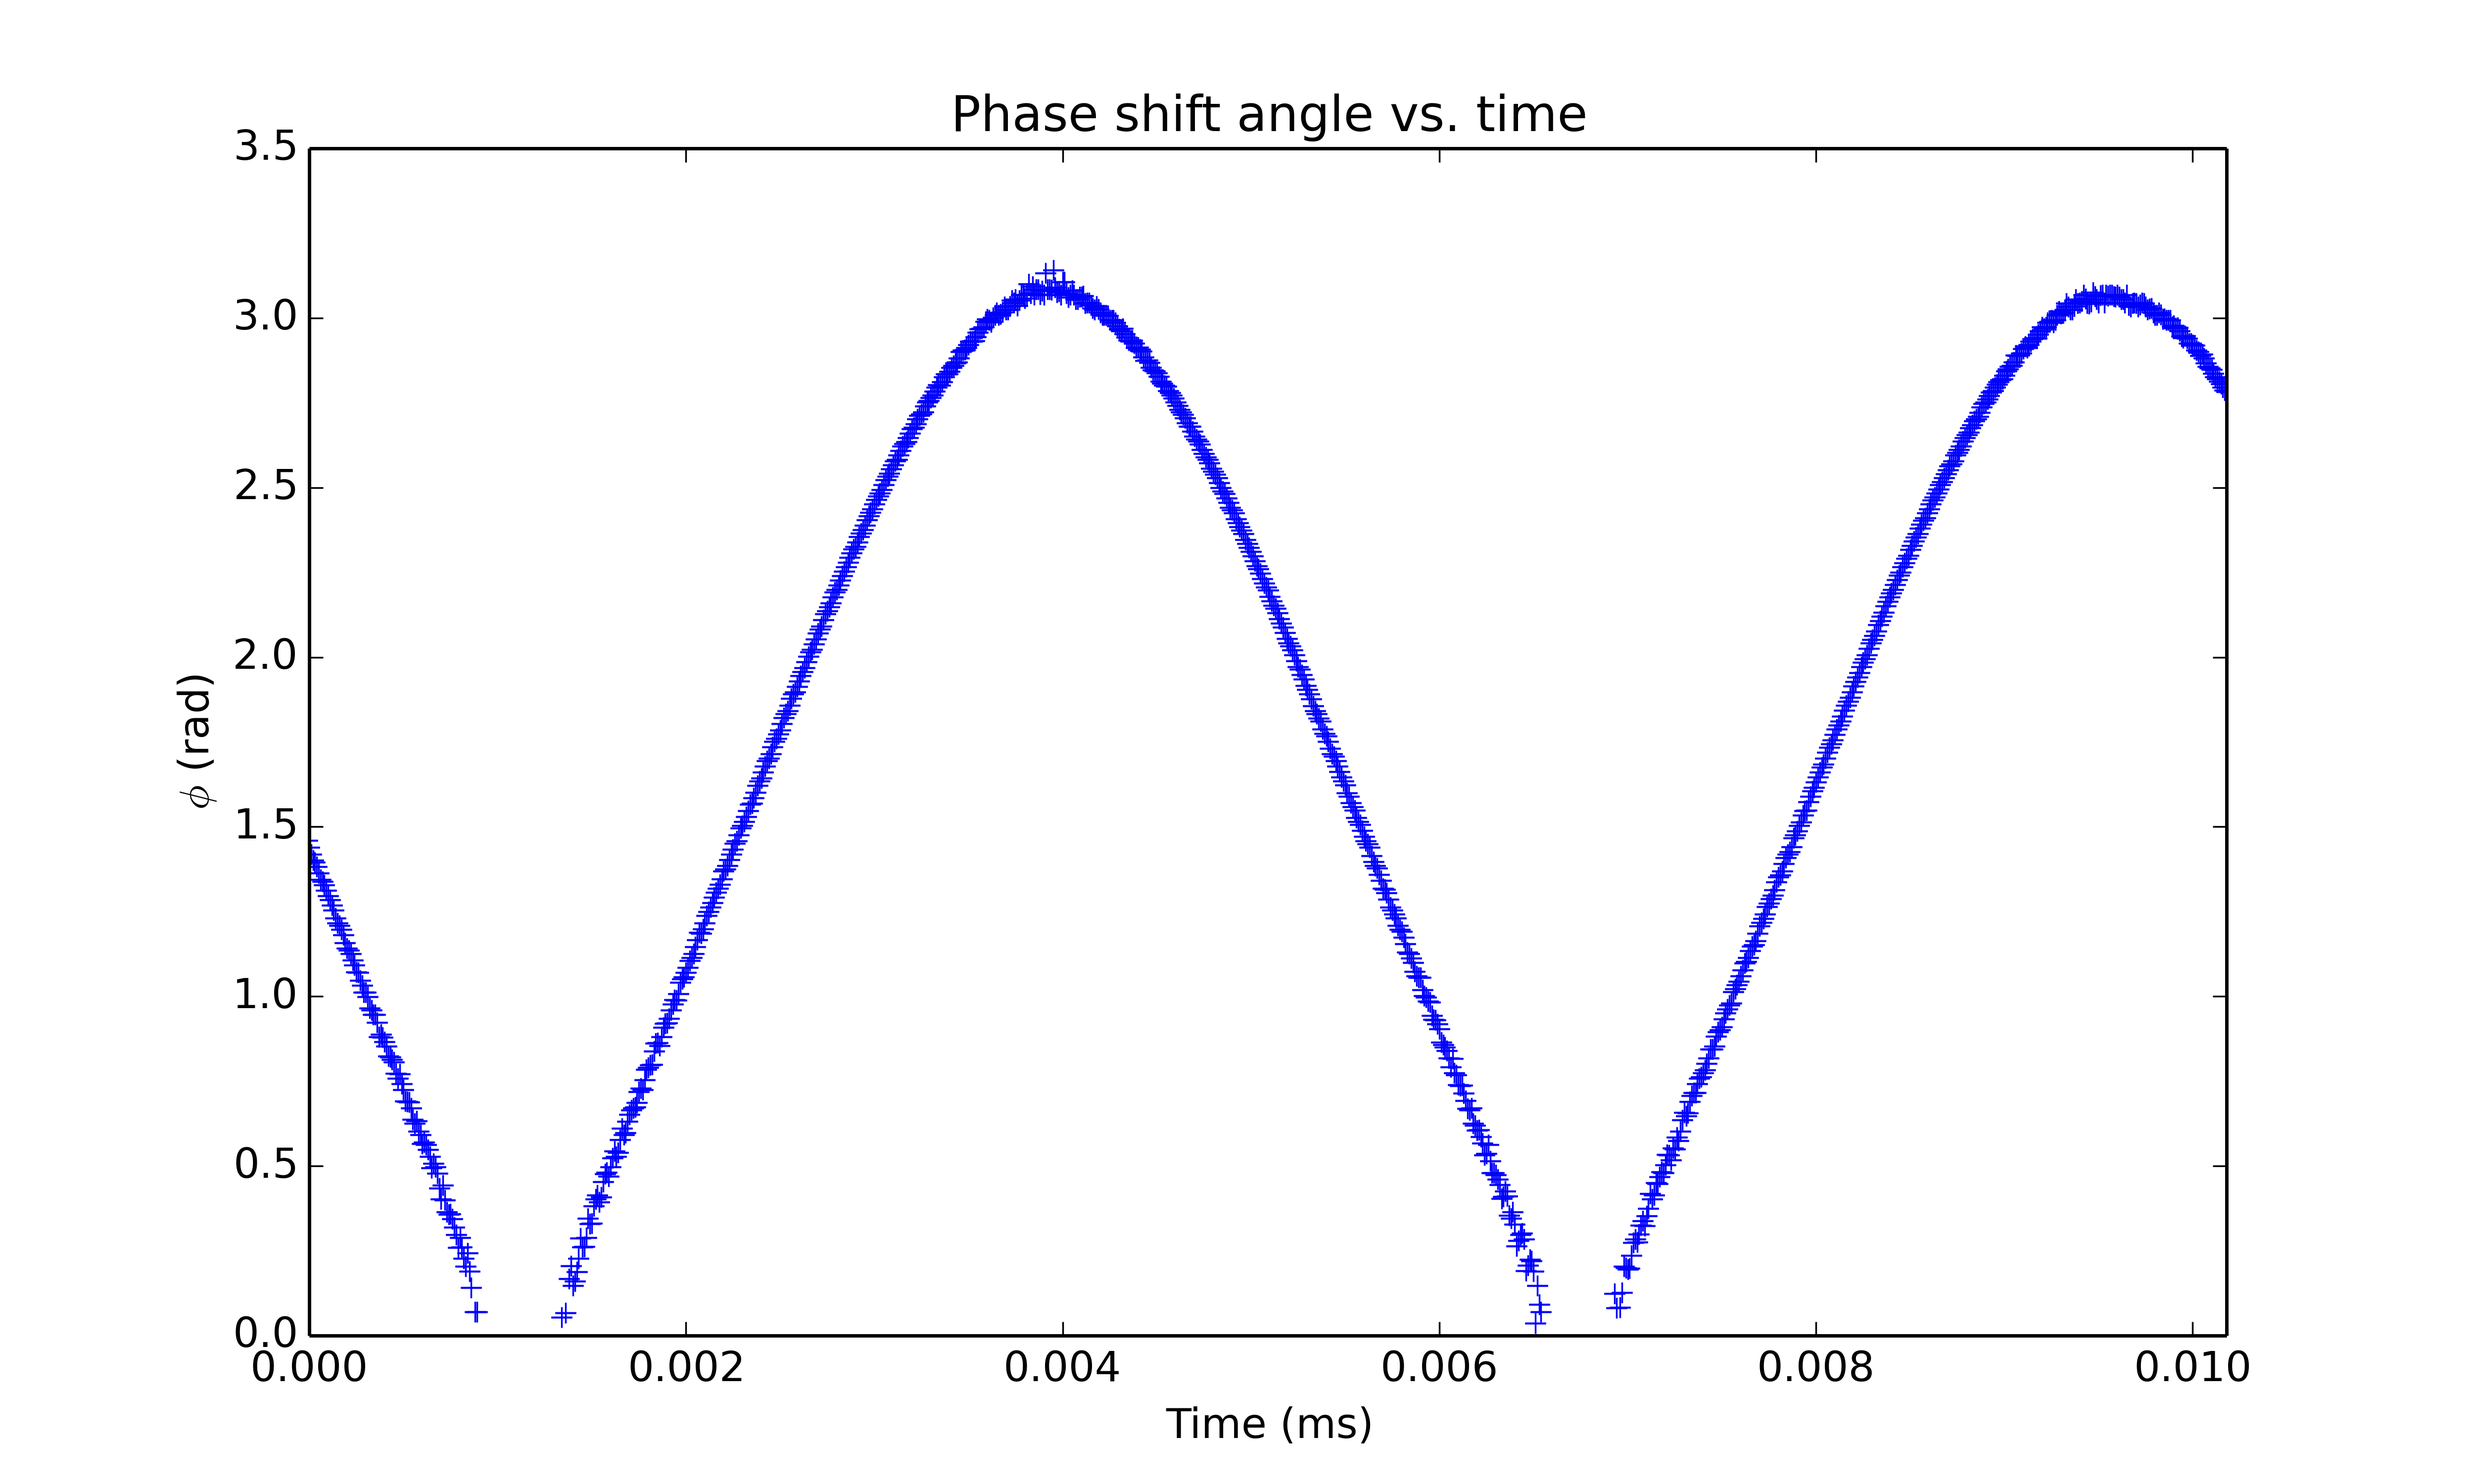
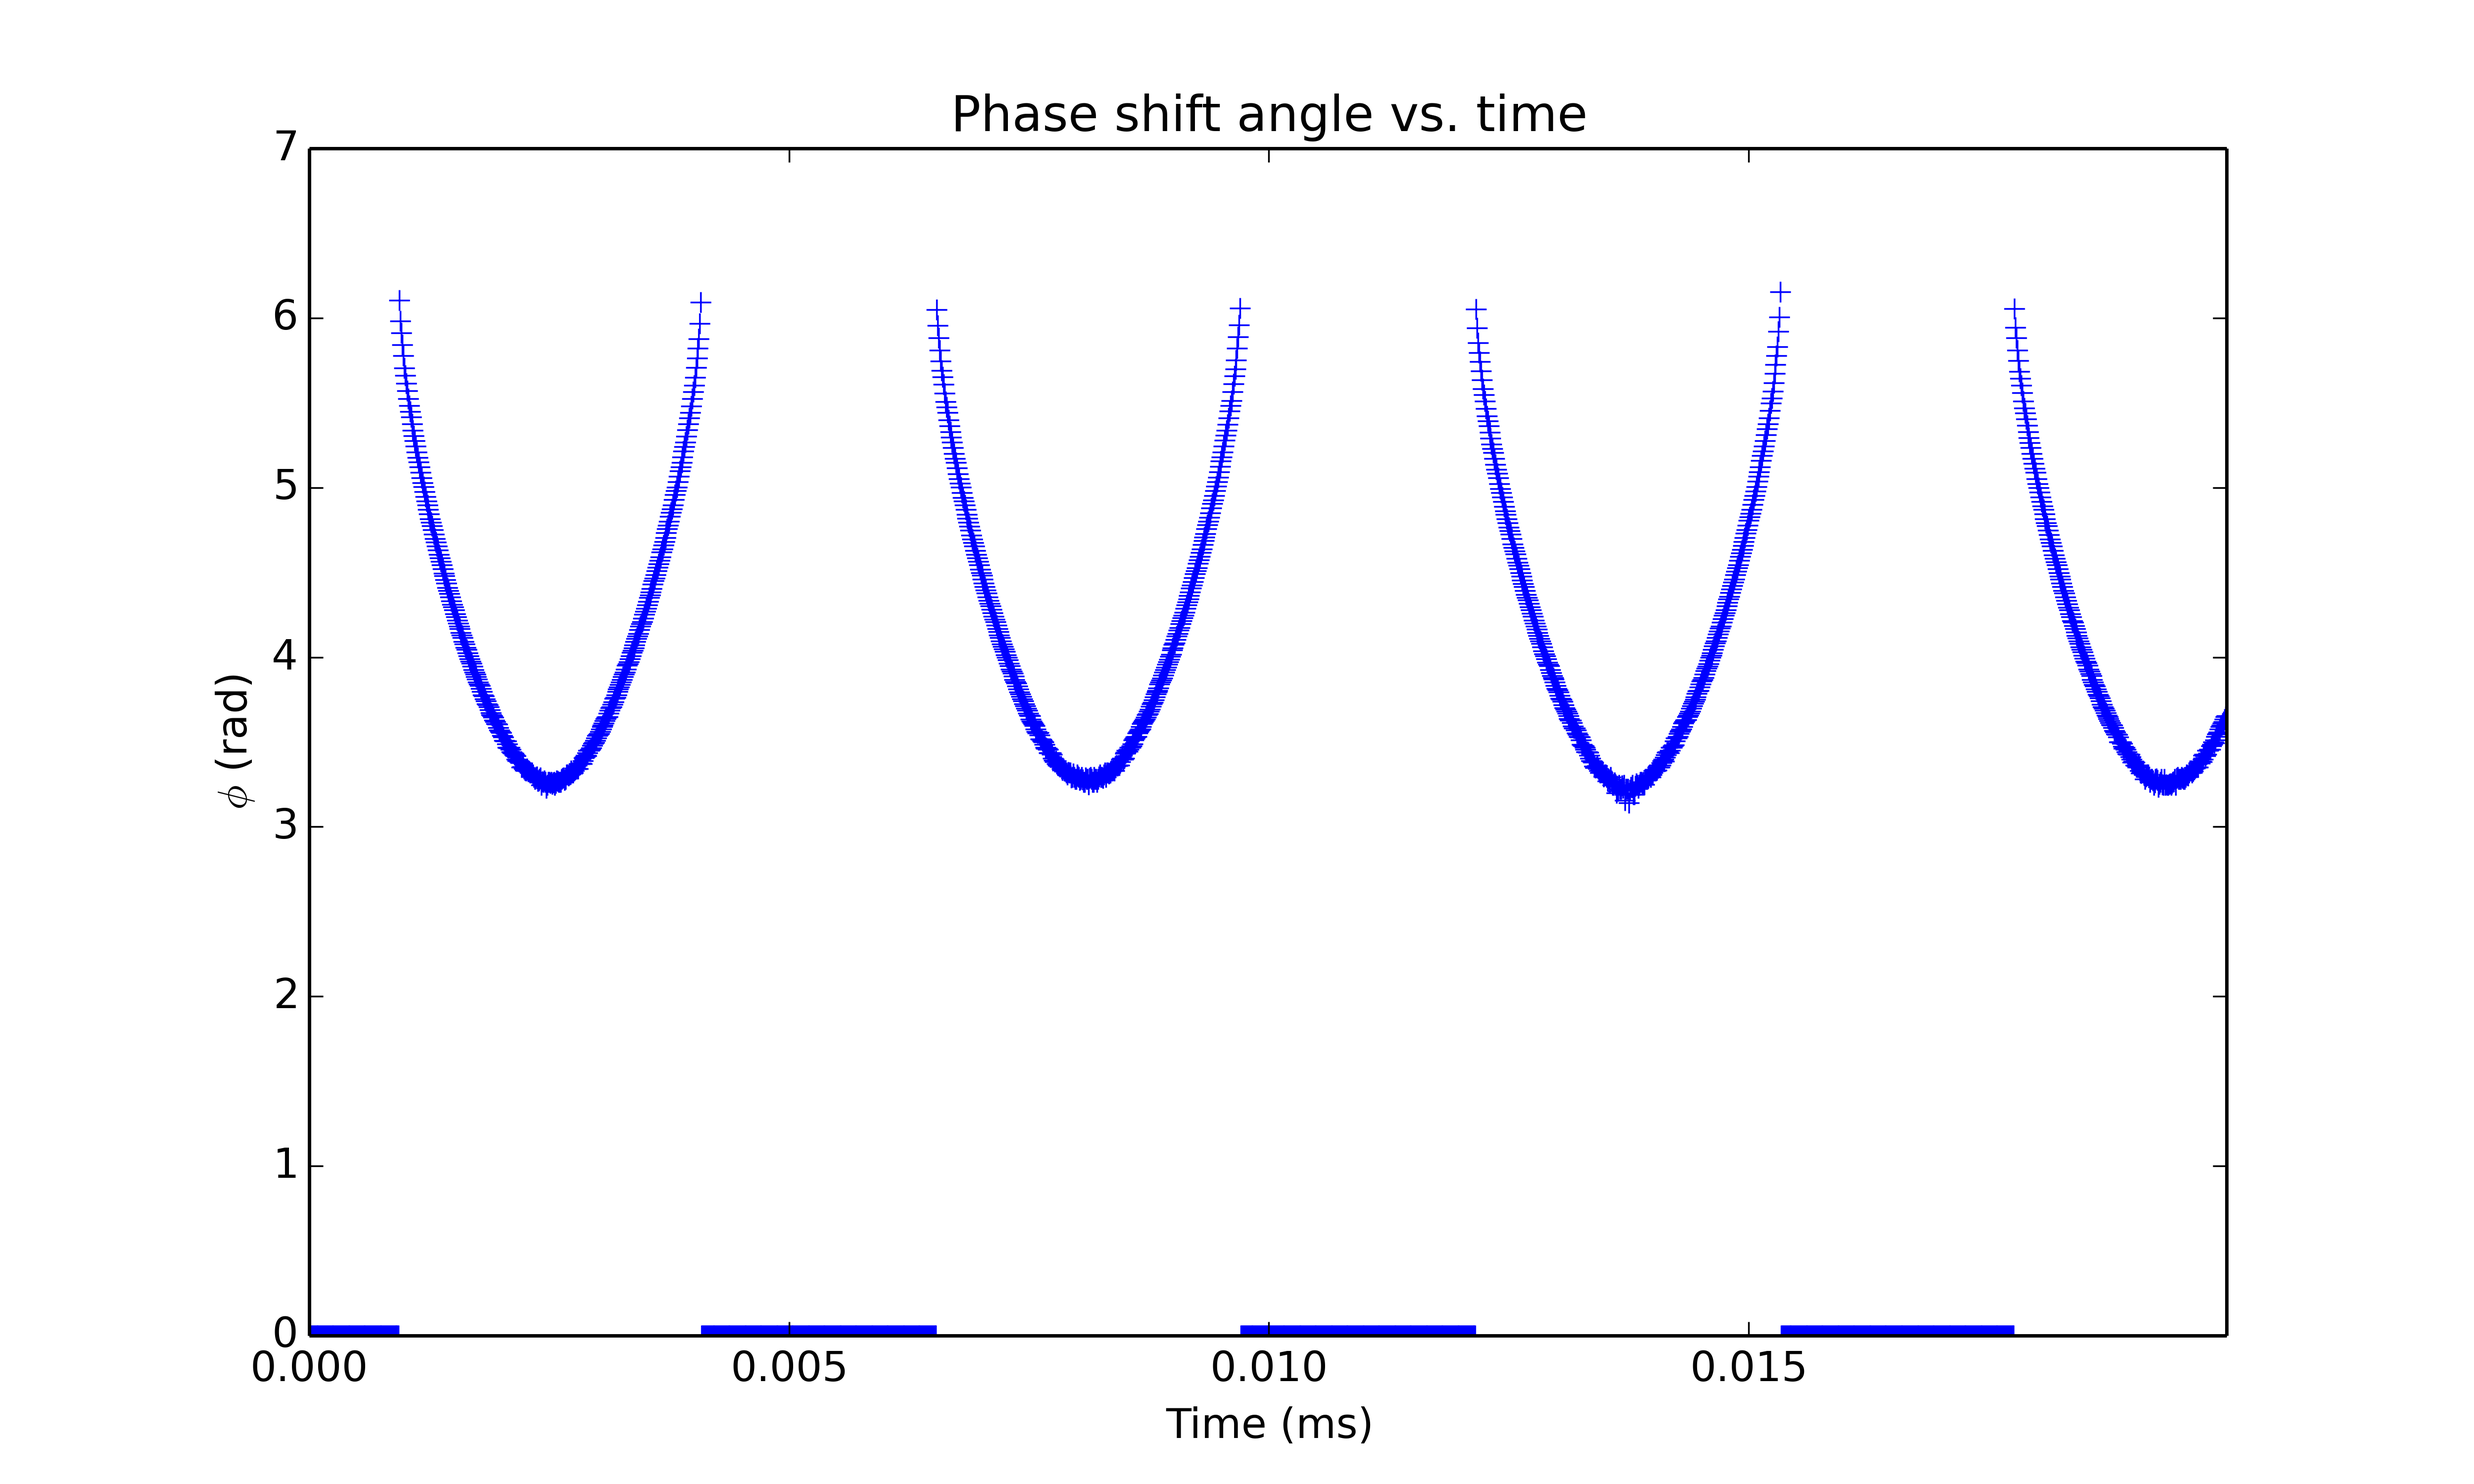
corrected phase shift graphs

diff --git a/RefractiveIndex/fitSinusoids.py b/RefractiveIndex/fitSinusoids.py
@@ -112,12 +112,11 @@ for i in range(1,4):
 	exec("phi_%d = phi(sw%d[1])"%(i,i))
 
 # phase shift with no pressure
-phi0 = phi(maxintensity)
 
 # -------------------------- OBSERVED REFRACTIVE INDEX ----------------------
 
 for i in range(1,4):
- 	exec("nt_%d = n0*(numpy.add(d*numpy.divide(phi_%d,2*numpy.pi),1))"%(i,i))
+ 	exec("nt_%d = n0*(numpy.subtract(1,d*numpy.divide(phi_%d,2*numpy.pi)))"%(i,i))
 
 print(numpy.mean(nt_pred))
 print(numpy.mean(nt_1))
@@ -158,7 +157,7 @@ for i in range(1,4):
 	plt.ylabel("$\phi$ (rad)",fontsize=12)
 	plt.title("Phase shift angle vs. time")
 	exec("plt.xlim([0,max(sw%d[0])])"%(i))
-	exec("plt.errorbar(sw%d[0],phi_%d,yerr=phierr,fmt='+')"%(i,i))
+	exec("plt.plot(sw%d[0],phi_%d,'+')"%(i,i))
 	exec("plt.savefig('phase%d.png',dpi=500)"%(i))
 
 for i in range(1,4):
